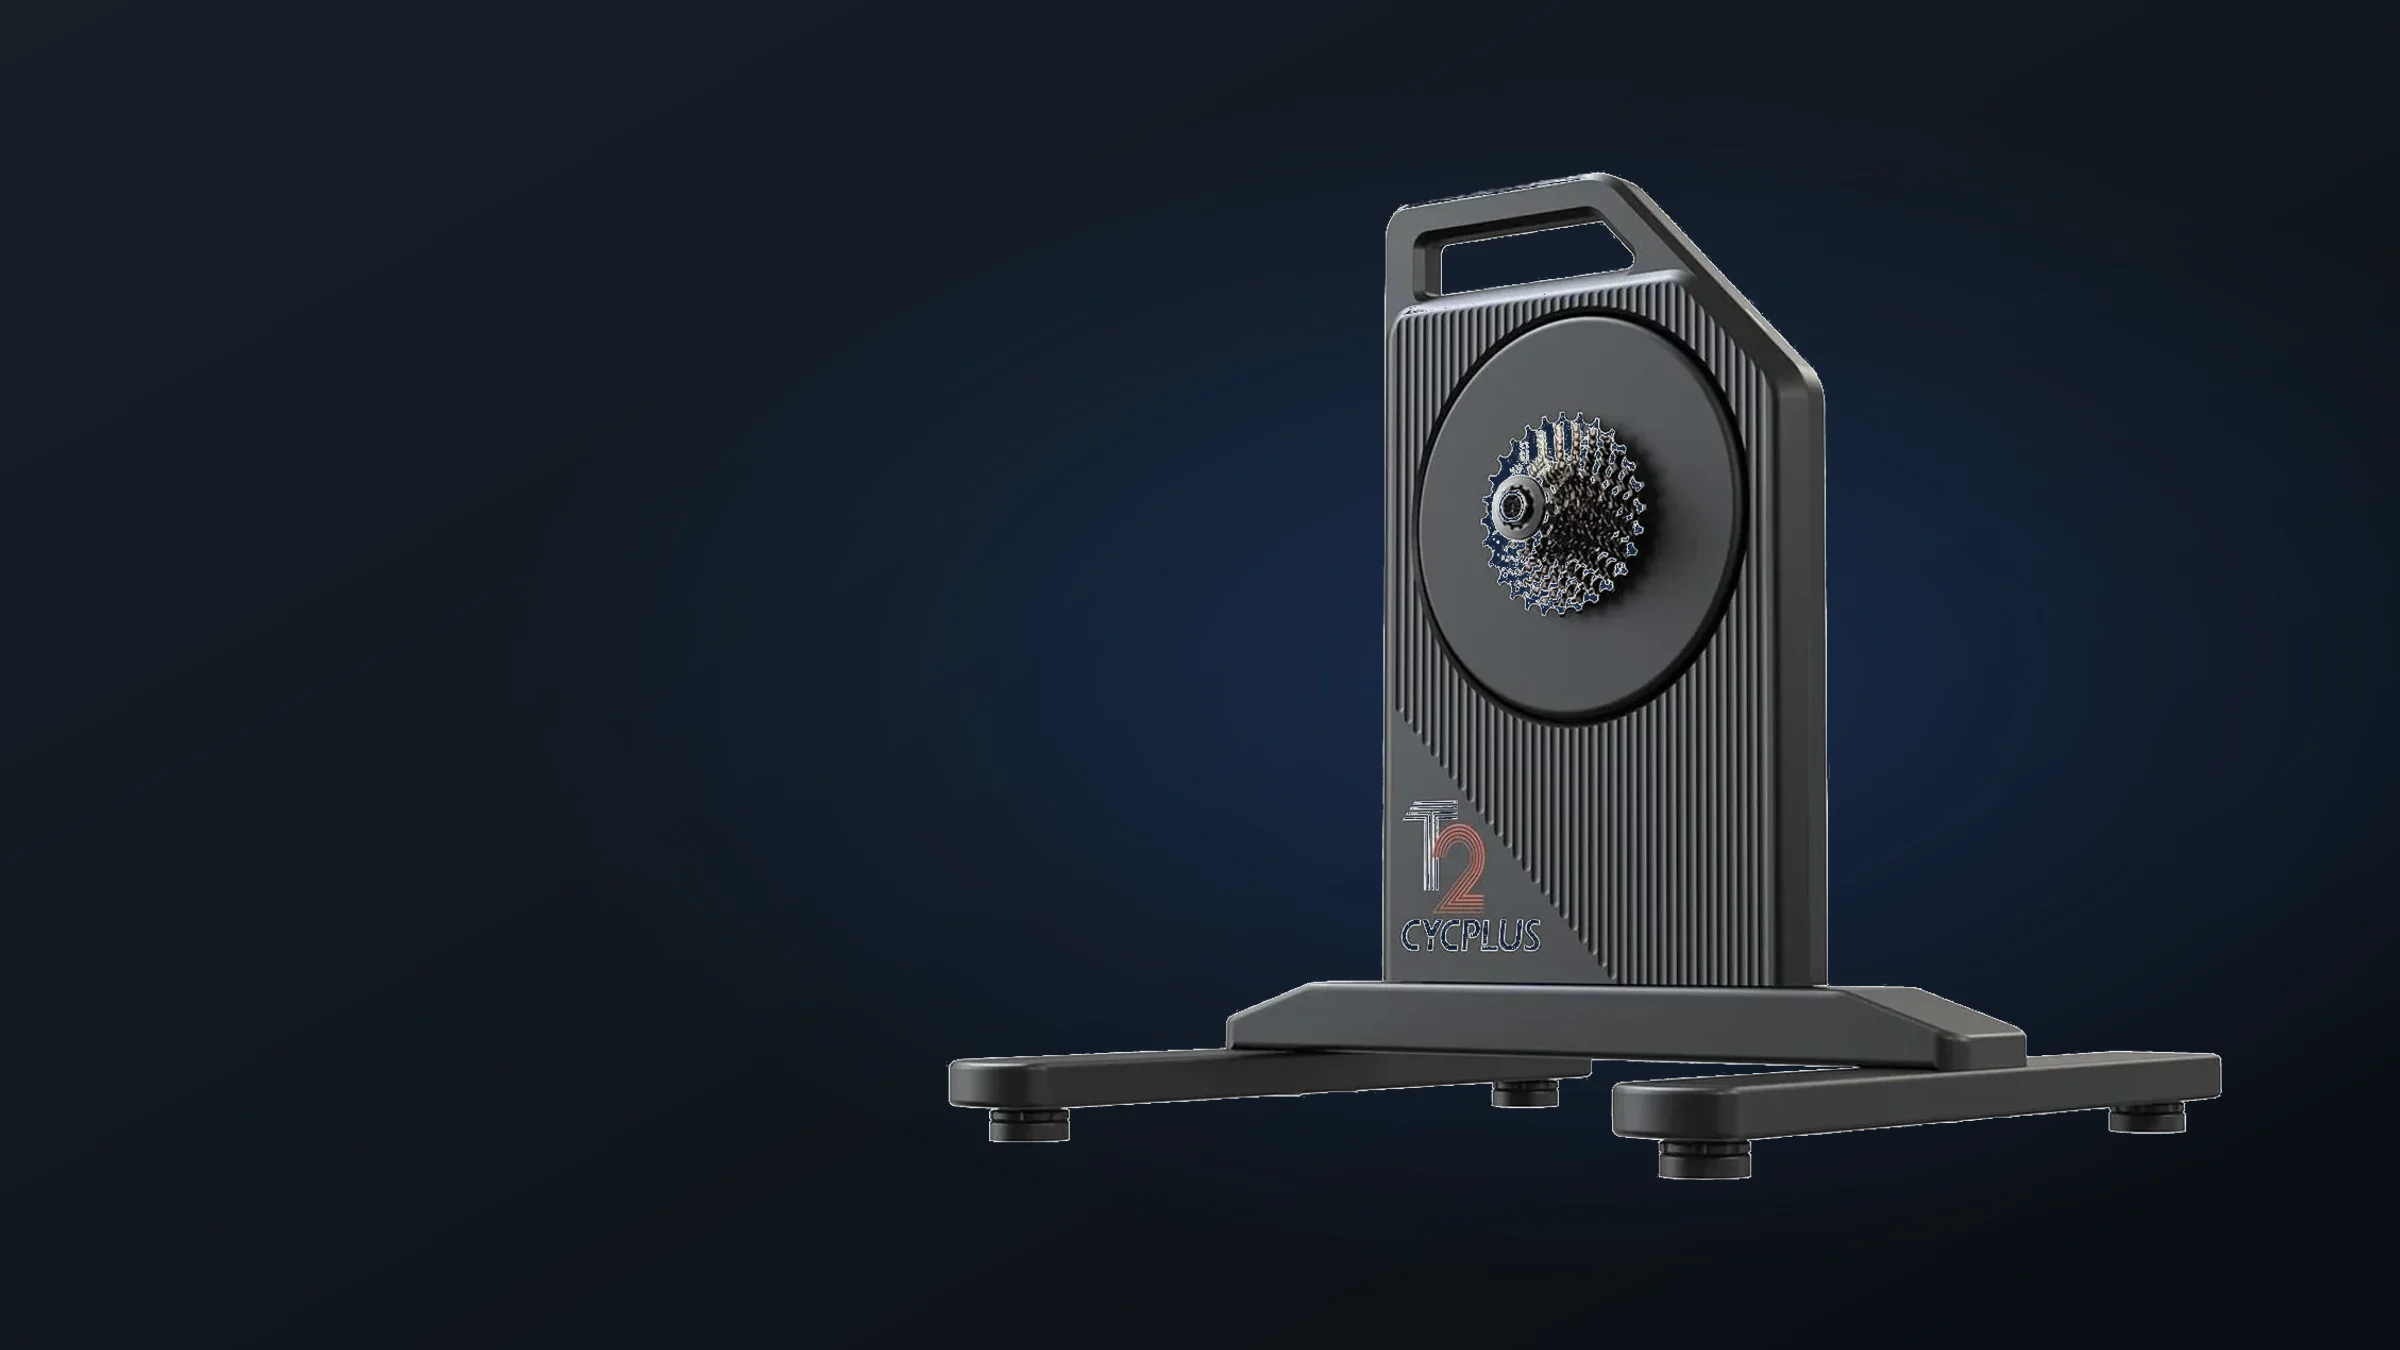
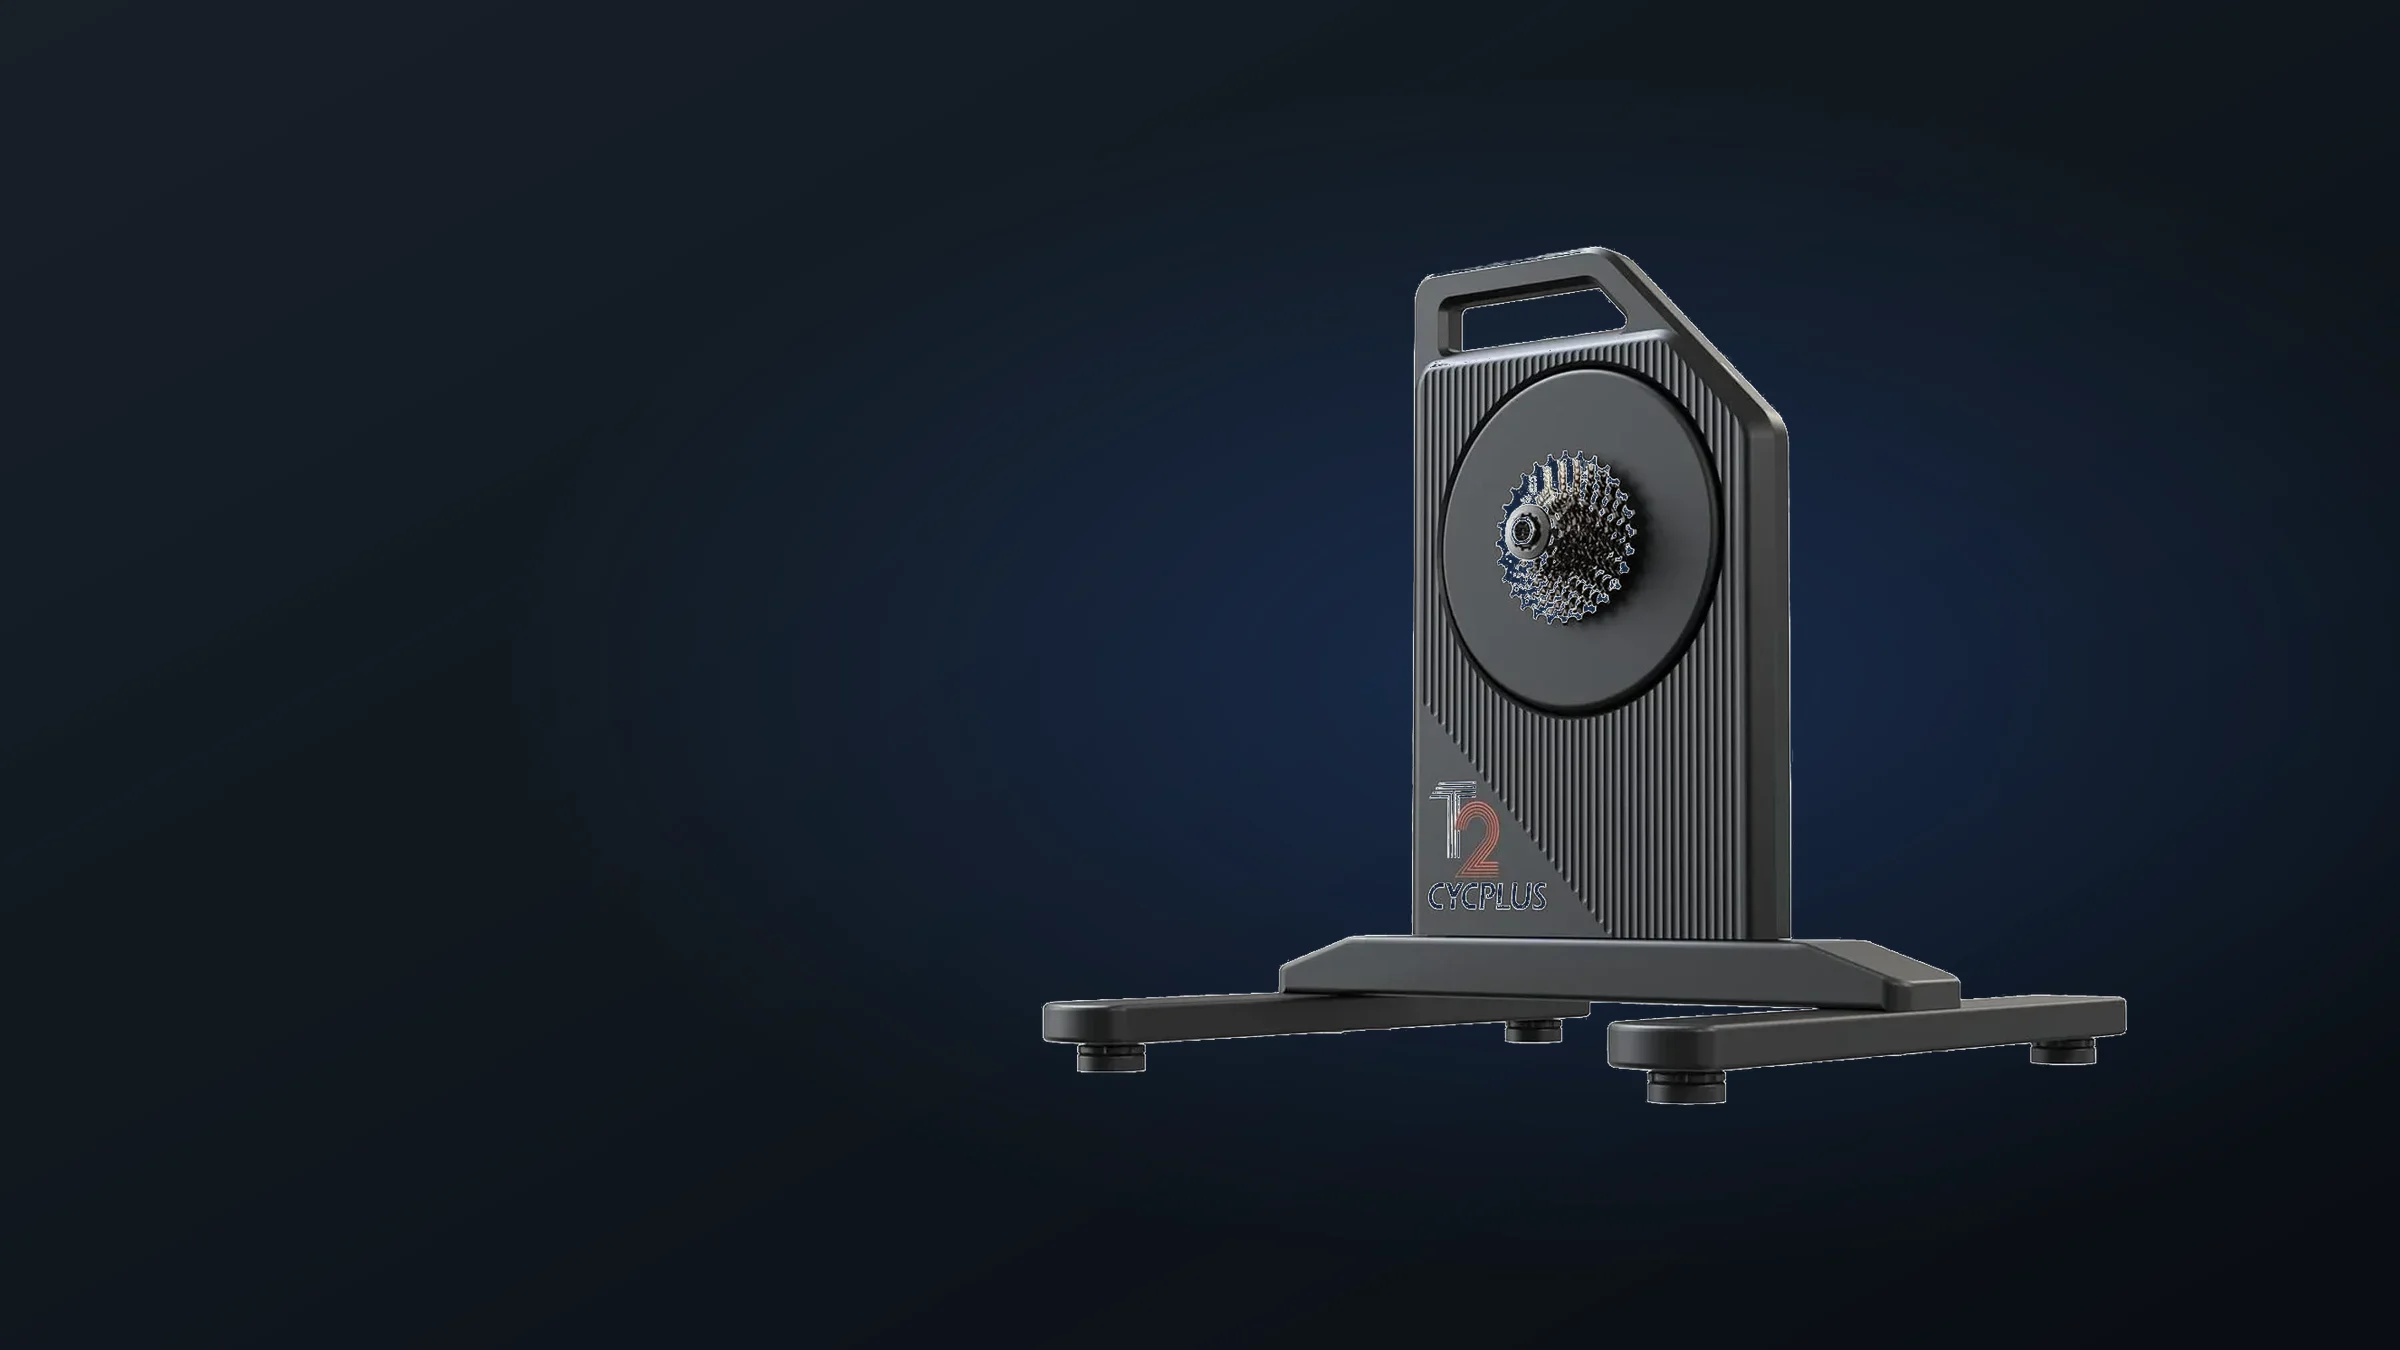
Článek a hero: cena ventilátoru v sadě, menší trenažér v hlavičce
- u ventilátoru doplněna cena v sadě (4 929 Kč) — bez ní nebylo jasné, proč
  jediný nemá cenu s kódem, když je v akci
- hero článku: trenažér zabíral skoro celou výšku a působil jako nalepený.
  Zmenšen, aby kolem zůstal prostor pro titulek.

Changed region(s): [[0.375, 0.1244, 0.9375, 0.8711]]

diff --git a/src/components/articles/TrenazeryVirtualniAplikace.tsx b/src/components/articles/TrenazeryVirtualniAplikace.tsx
@@ -284,7 +284,19 @@ export default function TrenazeryVirtualniAplikace() {
               <div className="flex items-baseline justify-between gap-3 mb-1">
                 <span className="font-black text-[#1a1a2e]">CYCPLUS F1</span>
                 <span className="text-sm font-bold text-[#3B7CF4] whitespace-nowrap">
-                  {cenaProduktu("cycplus-f1-ventilator").bezna}
+                  <span className="block">{cenaProduktu("cycplus-f1-ventilator").bezna}</span>
+                  {ACTIVE_PROMO && (
+                    <span className="block text-[11px] font-bold text-[#7A5615]">
+                      {formatPrice(
+                        Math.round(
+                          (PRODUCTS.find((x) => x.slug === "cycplus-f1-ventilator")
+                            ?.priceWithVat ?? 0) *
+                            (1 - ACTIVE_PROMO.percentWithBundle / 100),
+                        ),
+                      )}{" "}
+                      v sadě s trenažérem
+                    </span>
+                  )}
                 </span>
               </div>
               <p className="text-sm text-[#5A6480] leading-relaxed">
